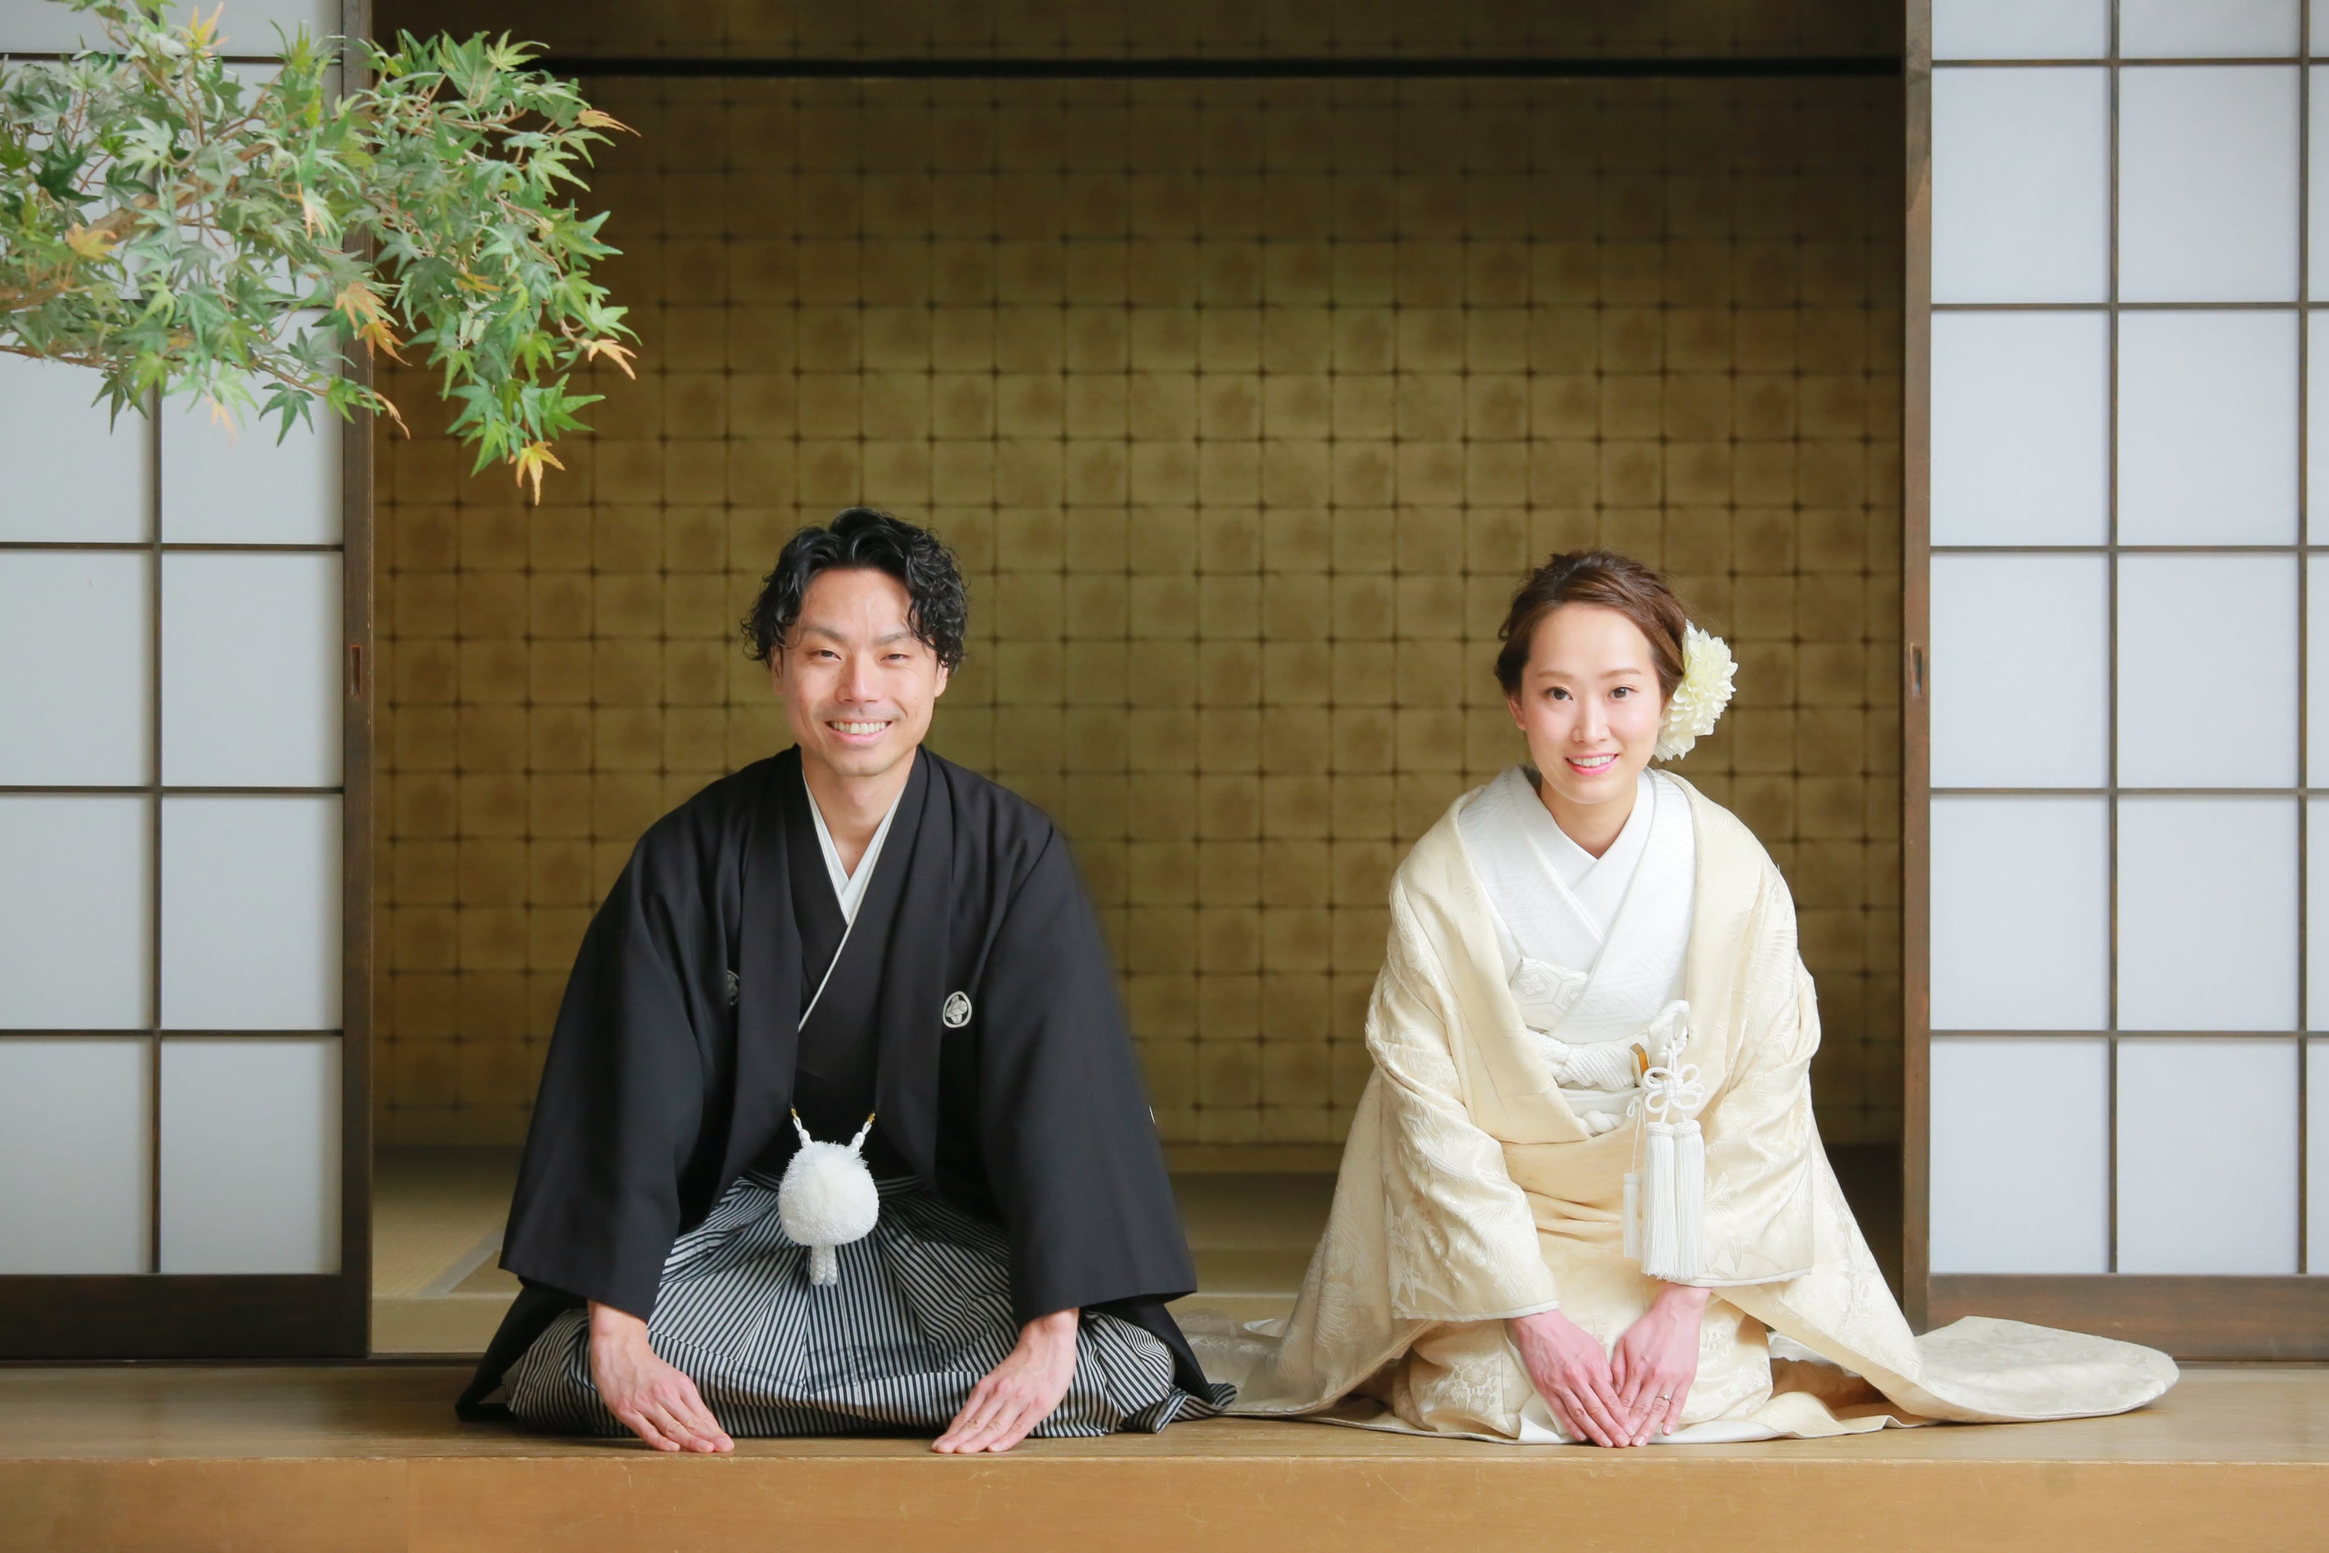
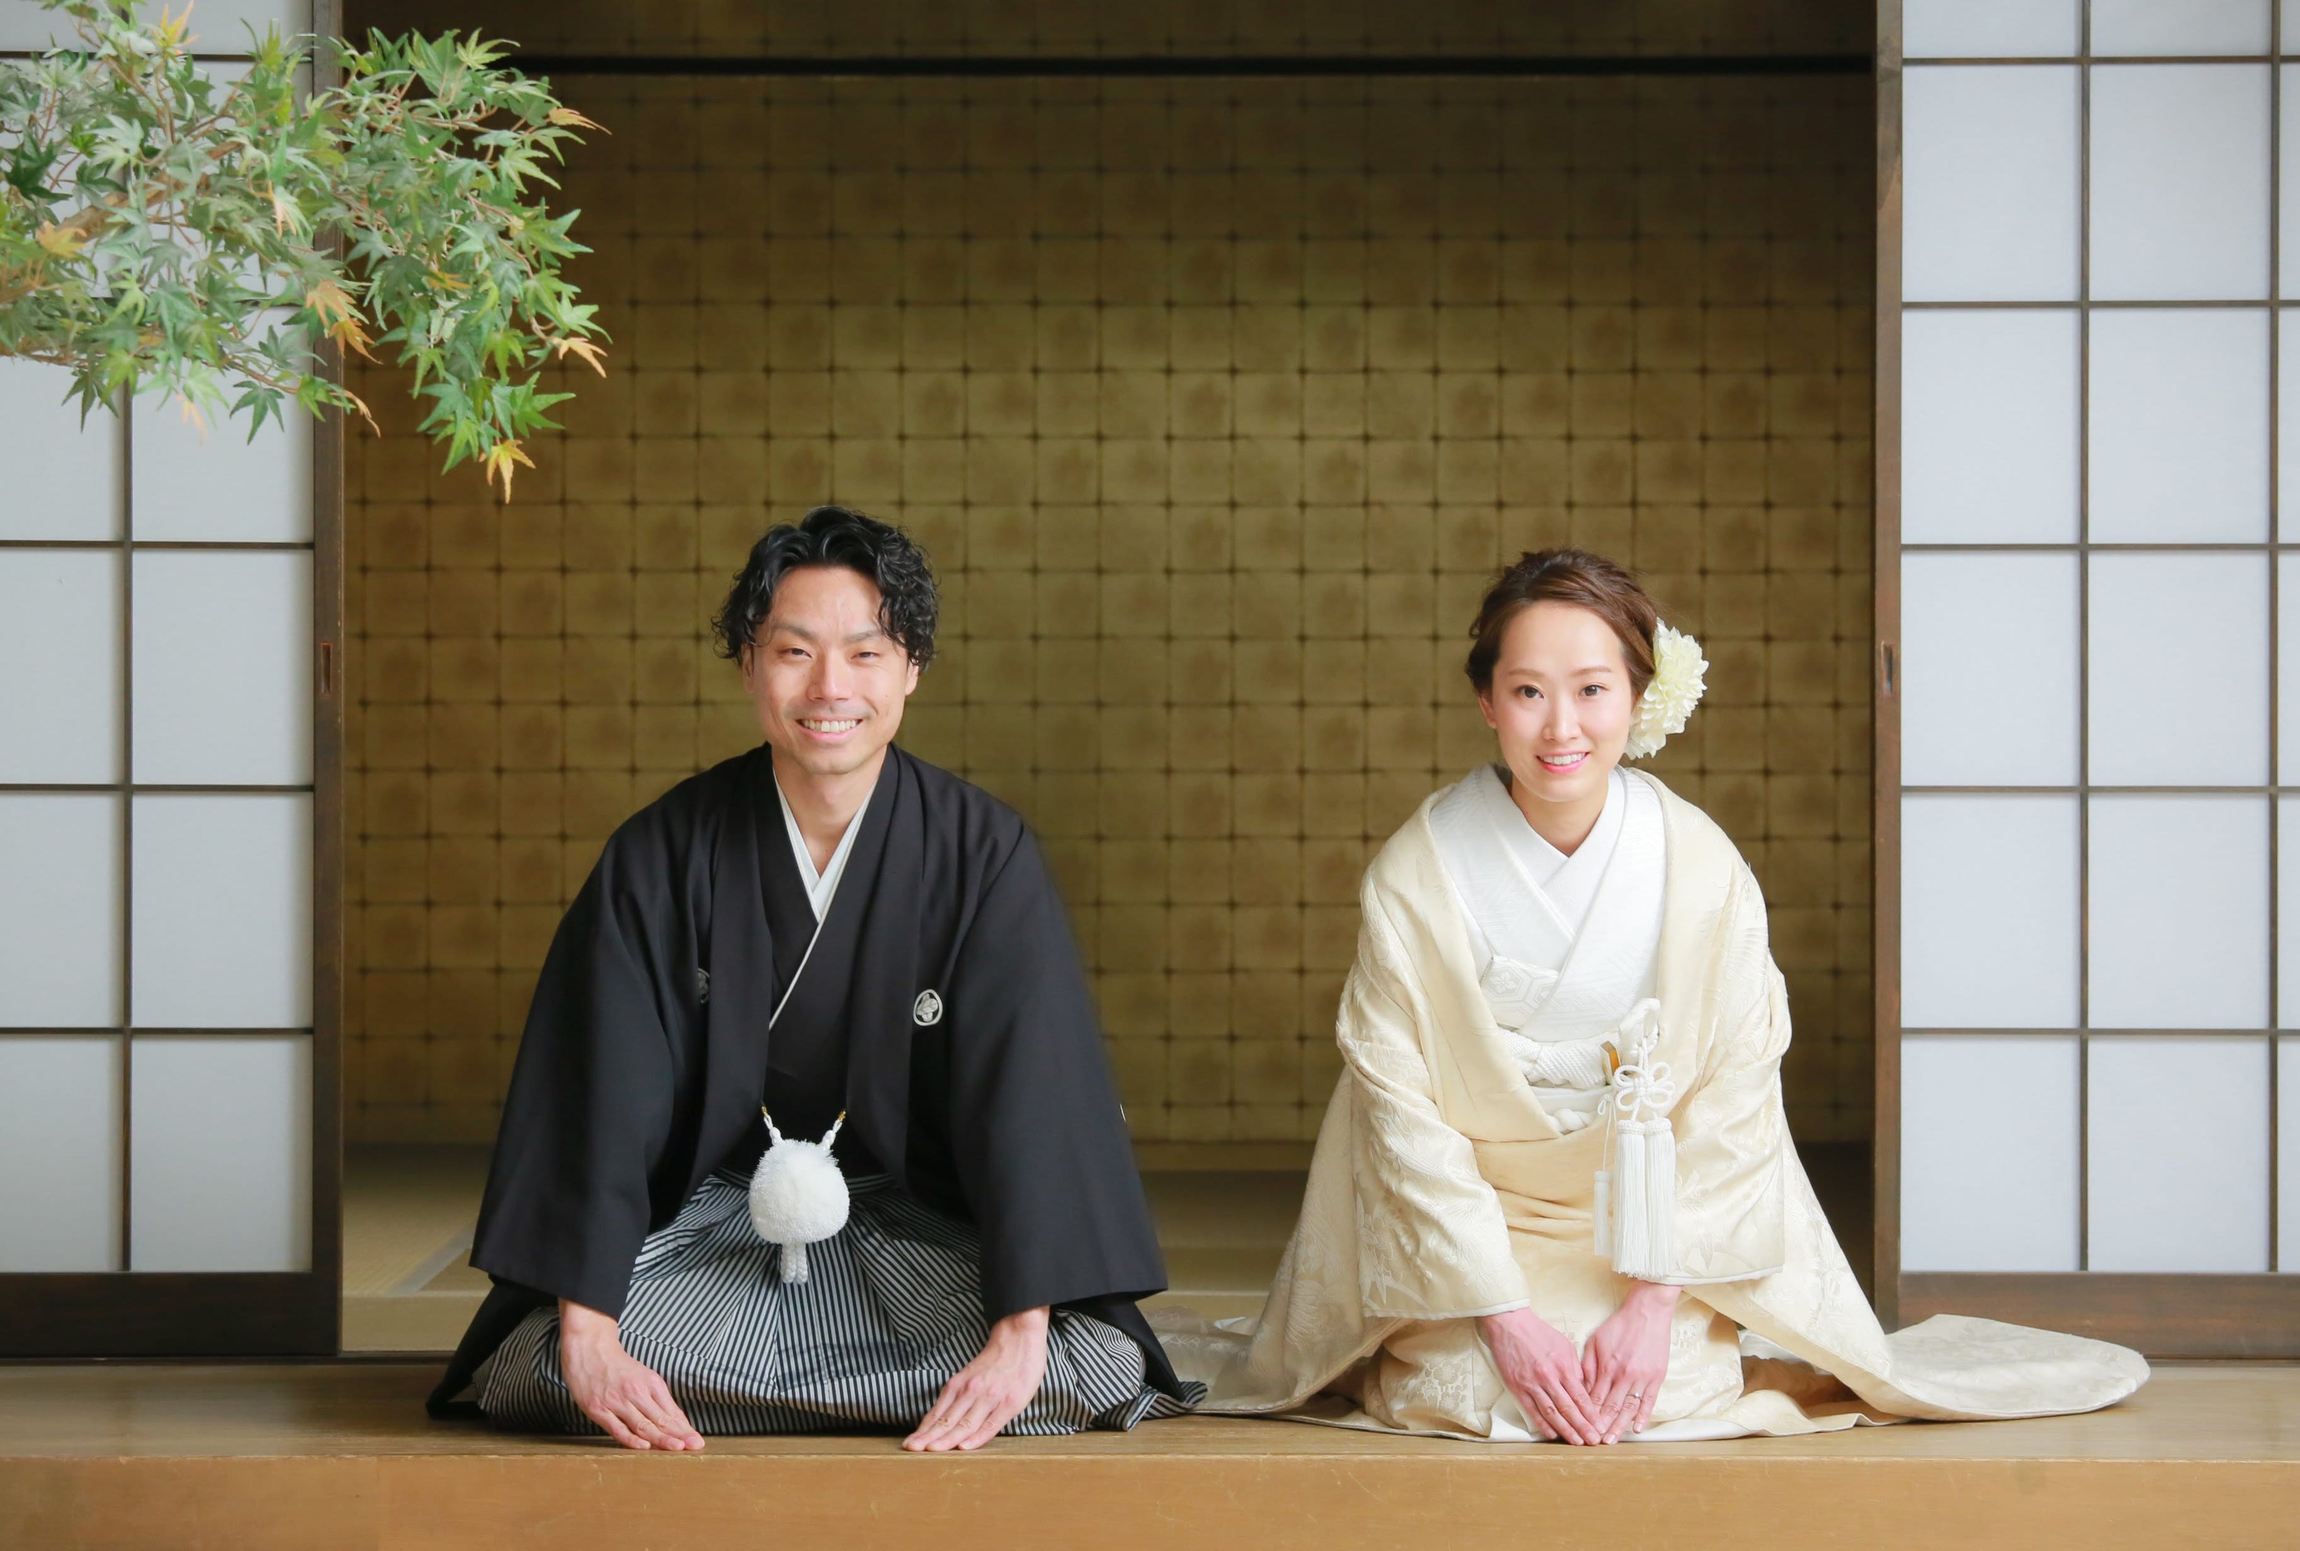
adjust image-size

diff --git a/index.html b/index.html
@@ -111,9 +111,9 @@
             <!-- Slider Texts -->
             <div class="wed_slide_txt wed_slide_center_bottom text-center" data-0="opacity:1;"
                  data--400-bottom="opacity:0;">
-                <img src="images/save_new4.png" height="450" alt="">
-                <h4>2018.06.02</h4>
-                <h3>Ryo & Ayuka</h3>
+                <img src="images/save_new4.png" height="450" alt="Save the Date" class="home">
+                <h4 class="home">2018.06.02</h4>
+                <h3 class="home">Ryo & Ayuka</h3>
             </div>
             <!-- Slider Texts End -->
 
@@ -220,10 +220,6 @@
                                     <span class="wed_port_titles">
                             <span class="wed_port_title">居酒屋</span>
                             <span class="wed_port_subtitle">群馬高崎</span>
-                            <span class="wed_port_icons">
-                                <a href="#"><i class="ti ti-link"></i></a>
-                                <a href="http://placehold.it/1400x900" class="lightbox"><i class="ti ti-search"></i></a>
-                            </span>
                           </span>
                                     <!--END of ICON LINK-->
 
@@ -284,10 +280,6 @@
                                     <span class="wed_port_titles">
                           <span class="wed_port_title">東京ディズニーシー</span>
                           <span class="wed_port_subtitle">舞浜</span>
-                          <span class="wed_port_icons">
-                            <a href="#"><i class="ti ti-link"></i></a>
-                            <a href="http://placehold.it/1400x900" class="lightbox"><i class="ti ti-search"></i></a>
-                          </span>
                         </span>
                                     <!--END of ICON LINK-->
                                 </div>

diff --git a/css/wedding_style.css b/css/wedding_style.css
@@ -2700,7 +2700,7 @@ h2.wed_without_after {
 	margin-bottom: 80px;
 }
  img.wed_img_height {
-	min-height: 400px;
+	/*min-height: 400px;*/
 	min-width: 500px;
   object-fit: cover;
   object-position: -31px -5px;
@@ -5880,6 +5880,13 @@ input[type=checkbox]:checked + .checkbox:before {
 }
 
 @media screen and (max-width: 480px) {
+	.wed_slider{
+		height: 90vh;
+	}
+
+	.home{
+		font-size: 20px;
+	}
     p.font-medium {
         font-size: 13px;
     }

diff --git a/css/responsive.css b/css/responsive.css
@@ -873,7 +873,7 @@
 		padding: 13px 16px;
 	}
 	.wed_slide_center_bottom img{
-		height: 300px;
+		height: 200px;
 	}
 	/*Happy Couple Frame*/
 	.wed_heart_img_1,
